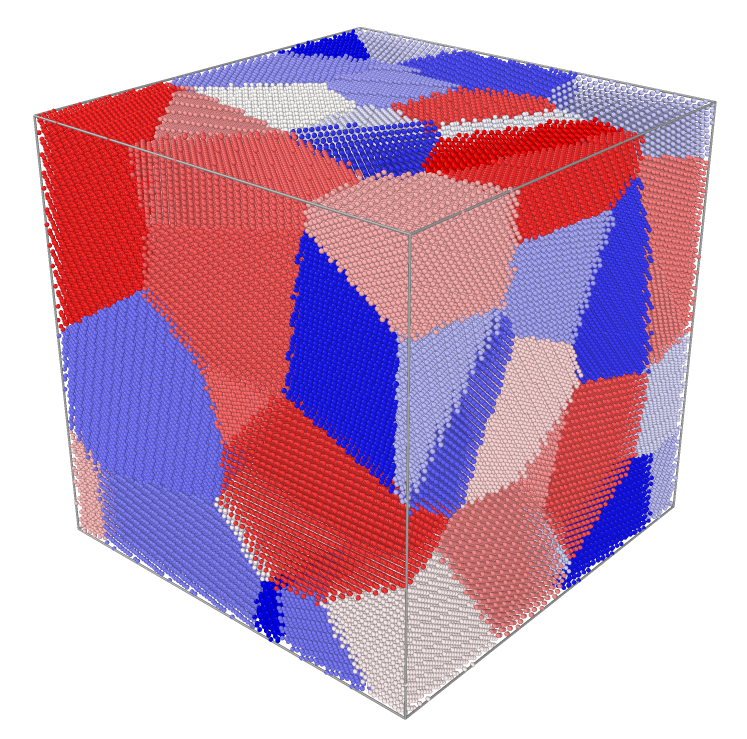
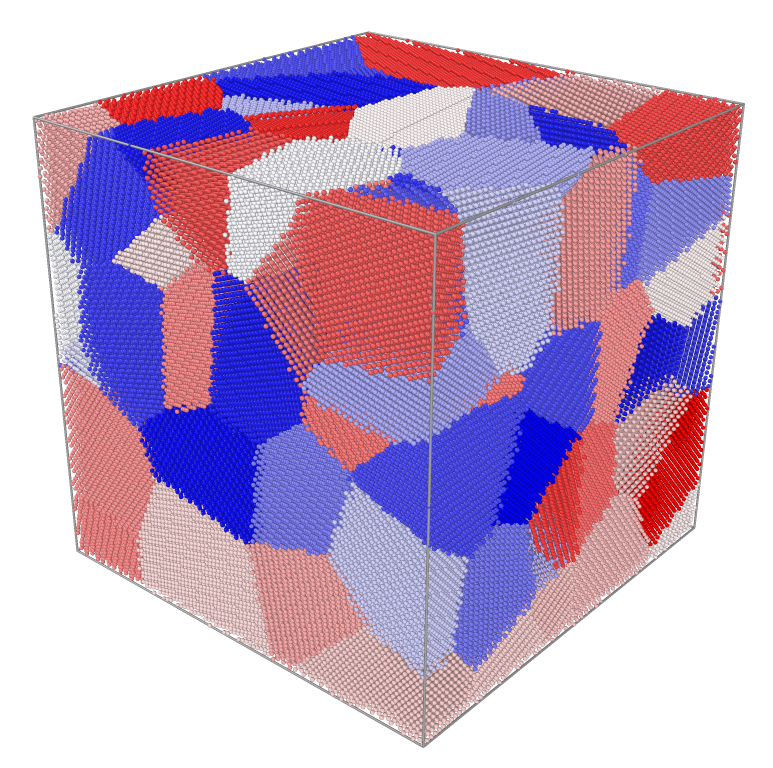
Add zoom-in connectors between research scale circles.
Insert tapered blue-gray bridges between the three multiscale figures and update the micro-scale image asset.

diff --git a/research.html b/research.html
@@ -56,8 +56,26 @@
     display: flex;
     justify-content: center;
     align-items: center;
-    flex-wrap: wrap;
-    gap: 3em;
+    flex-wrap: nowrap;
+    gap: 0;
+  }
+
+  .research-page .research-scale-connector {
+    flex-shrink: 0;
+    width: 3.25em;
+    height: 4.75em;
+    align-self: center;
+    position: relative;
+    z-index: 0;
+    margin: 0 -0.4em;
+    background: linear-gradient(
+      to right,
+      #d6dfea 0%,
+      #e2e9f2 42%,
+      #eef2f7 100%
+    );
+    clip-path: polygon(0 6%, 100% 26%, 100% 74%, 0 94%);
+    opacity: 0.95;
   }
 
   .research-page .research-scale-circle {
@@ -68,6 +86,8 @@
     background: #e2e9f2;
     border: 1px solid #c5d0e0;
     flex-shrink: 0;
+    position: relative;
+    z-index: 1;
   }
 
   .research-page .research-scale-circle img {
@@ -83,6 +103,23 @@
     .research-page .research-scale-circle {
       width: 132px;
       height: 132px;
+    }
+
+    .research-page .research-scale-connector {
+      width: 2.5em;
+      height: 3.75em;
+      margin: 0 -0.3em;
+    }
+  }
+
+  @media (max-width: 520px) {
+    .research-page .research-scale-figures {
+      flex-wrap: wrap;
+      row-gap: 1.25em;
+    }
+
+    .research-page .research-scale-connector {
+      display: none;
     }
   }
 
@@ -252,9 +289,11 @@
     <div class="research-scale-circle">
       <img src="/assets/img/micro_md_w_box.png" alt="Micro scale molecular dynamics">
     </div>
+    <div class="research-scale-connector" aria-hidden="true"></div>
     <div class="research-scale-circle">
       <img src="/assets/img/meso_ddd_w_box.png" alt="Mesoscale dislocation dynamics">
     </div>
+    <div class="research-scale-connector" aria-hidden="true"></div>
     <div class="research-scale-circle">
       <img src="/assets/img/macro_polycrystal.png" alt="Macroscale polycrystal">
     </div>